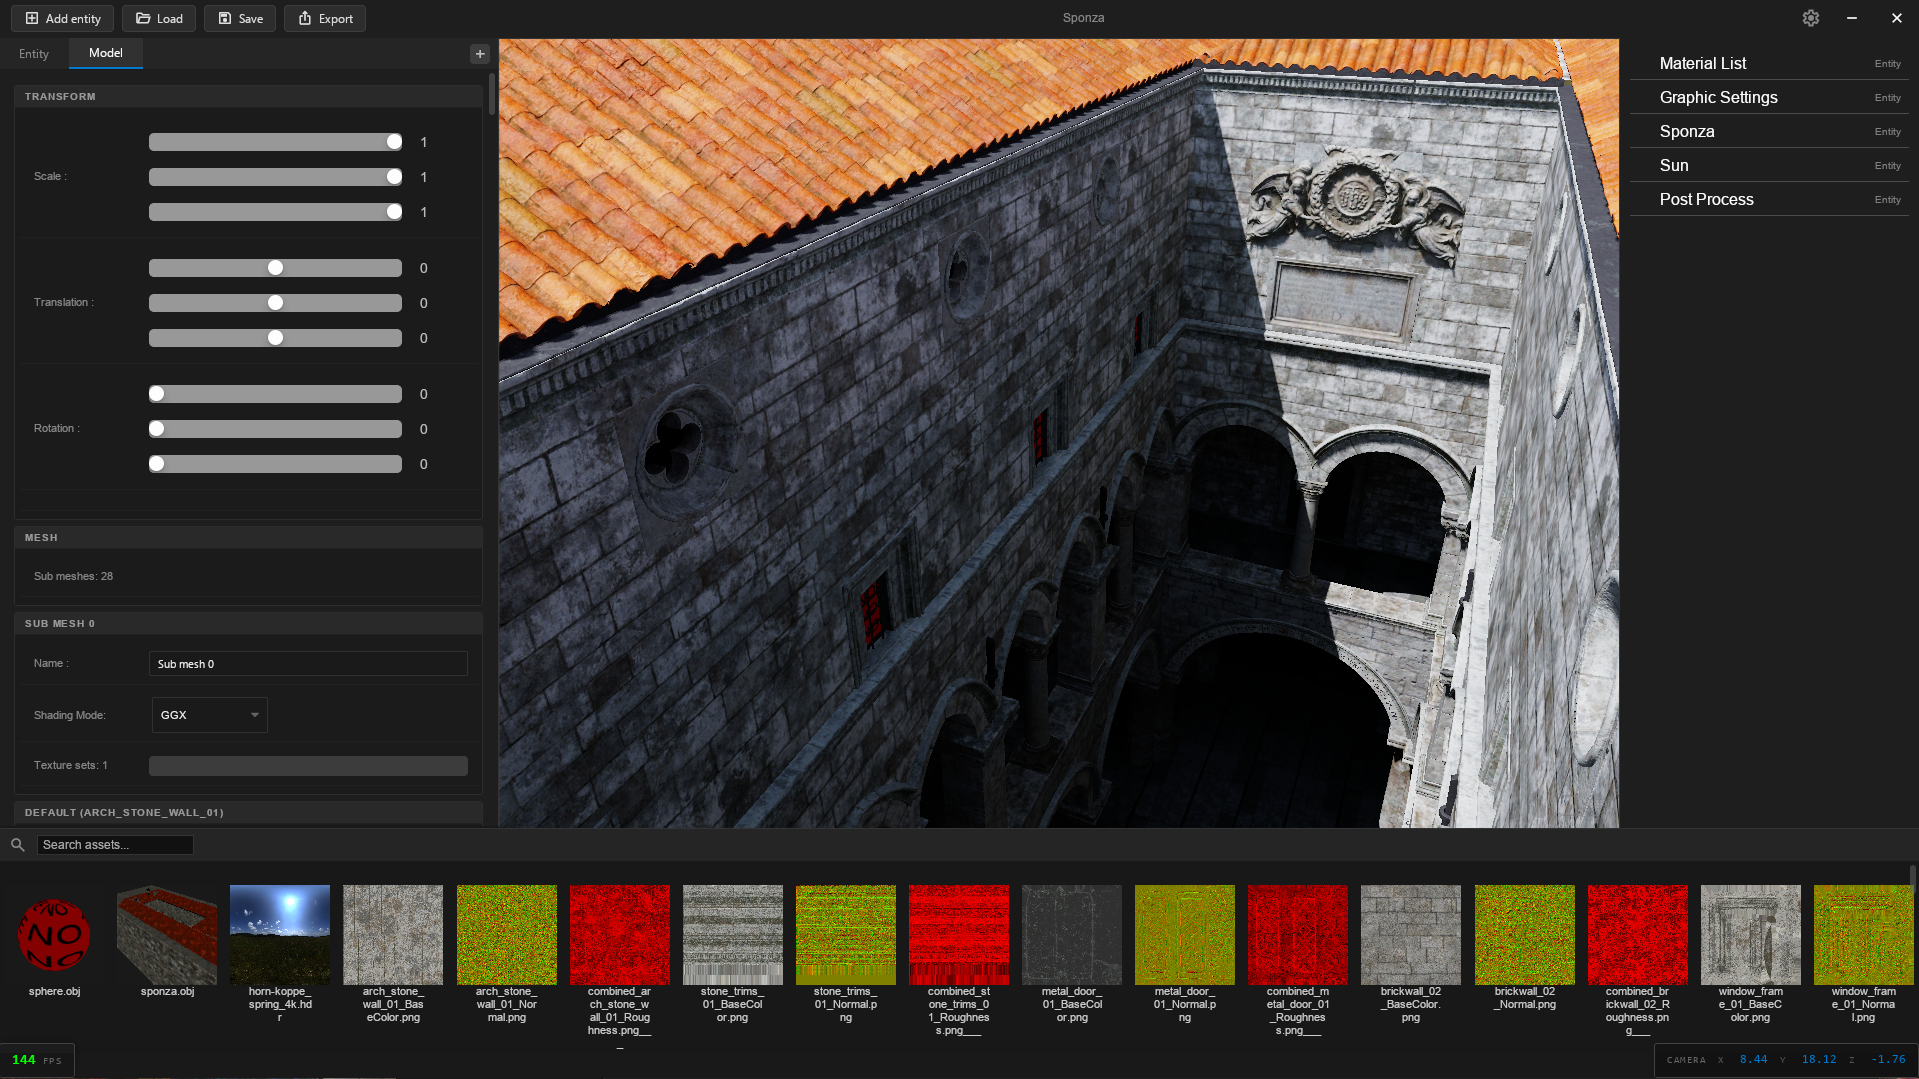
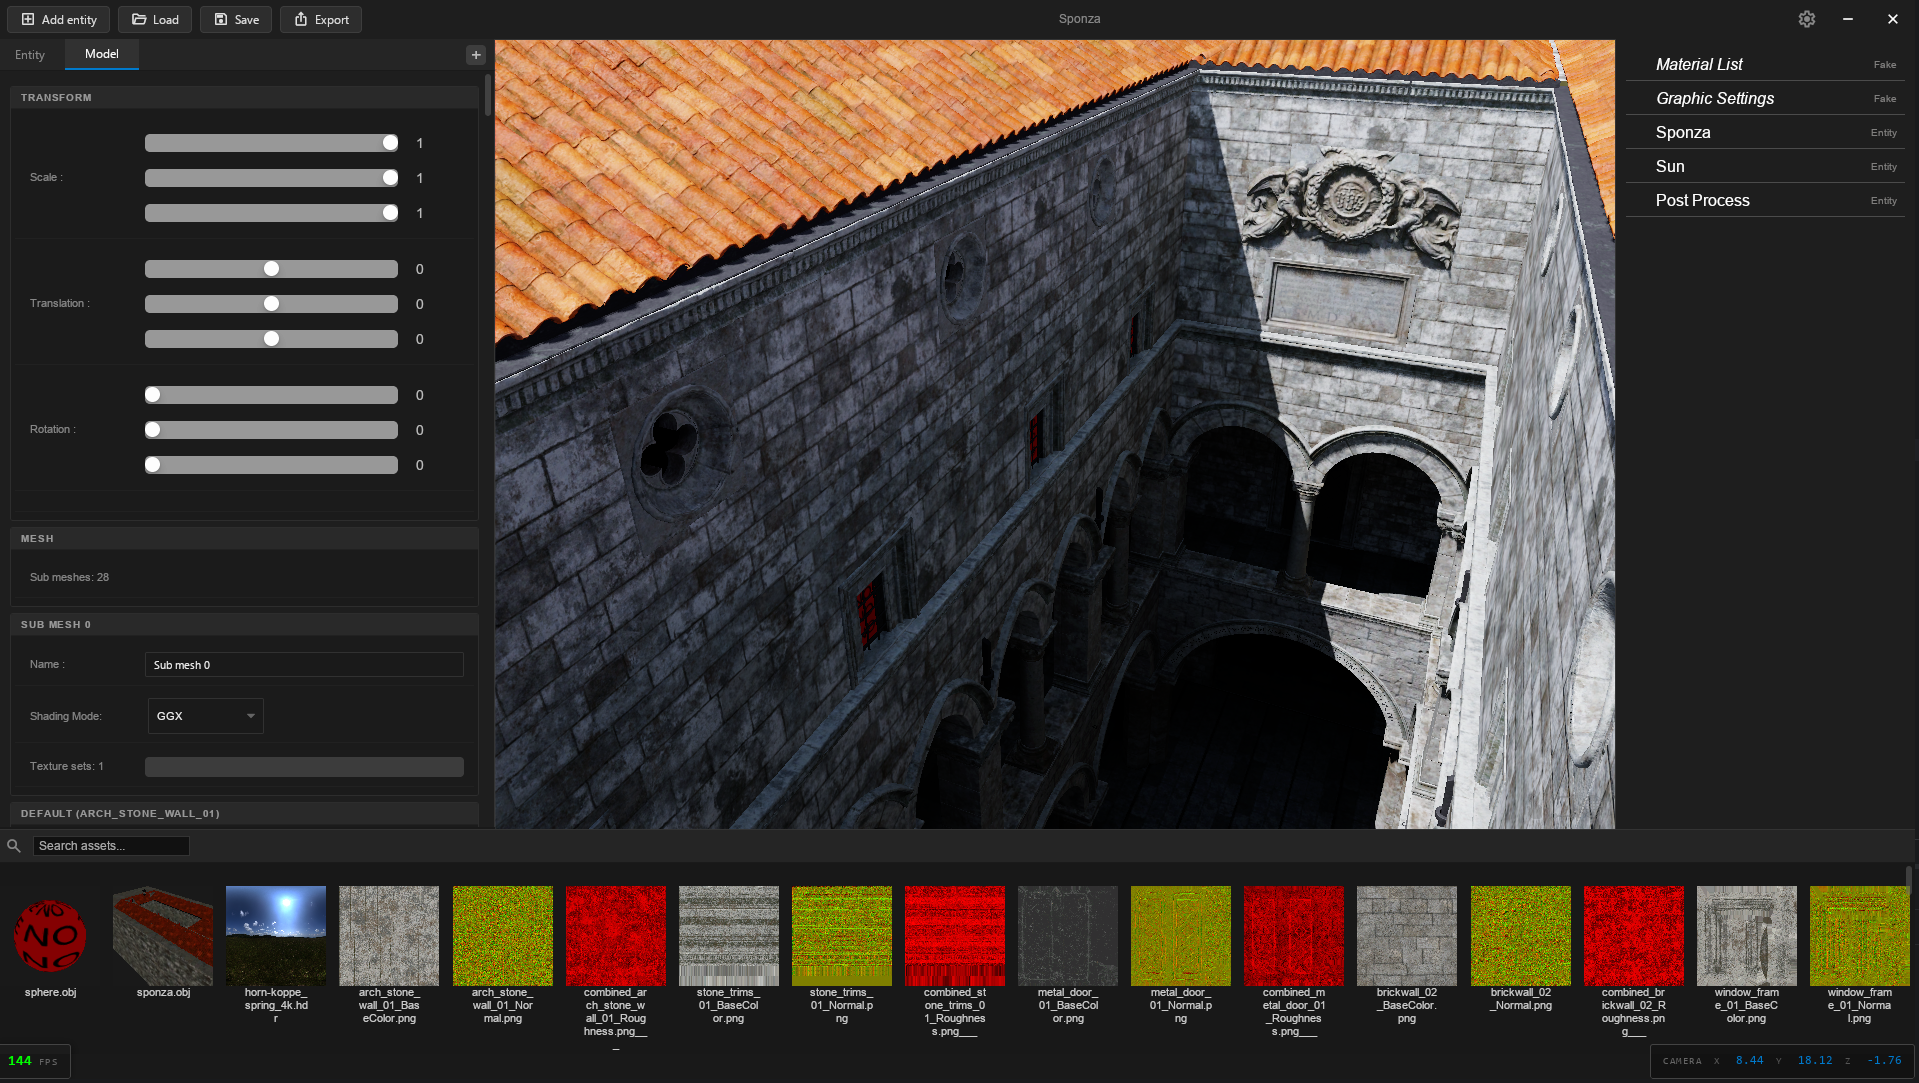
fix fake entities UI style

diff --git a/Wolf Engine 2.0 - 3D Editor/UI/UI.html b/Wolf Engine 2.0 - 3D Editor/UI/UI.html
@@ -541,7 +541,7 @@
 
 		item.innerHTML = `
 			<span class="entityToggle">▼</span>
-			<span class="entityName">${name}</span>
+			<span class="entityName" ${isFake ? "style='font-style: italic;'" : ""}>${name}</span>
 			<div class="entityType">${isFake ? "Fake" : "Entity"}</div>
 		`;
 

diff --git a/Wolf Engine 2.0 - 3D Editor/SystemManager.cpp b/Wolf Engine 2.0 - 3D Editor/SystemManager.cpp
@@ -971,7 +971,7 @@ void SystemManager::updateBeforeFrame()
 		const std::vector<Wolf::ResourceUniqueOwner<Entity>>& allEntities = m_entityContainer->getEntities();
 		for (const Wolf::ResourceUniqueOwner<Entity>& entity : allEntities)
 		{
-			std::string scriptToAddModelToList = "addEntityToList(\"" + entity->getName() + "\", \"" + entity->computeEscapedLoadingPath() + "\", false, ";
+			std::string scriptToAddModelToList = "addEntityToList(\"" + entity->getName() + "\", \"" + entity->computeEscapedLoadingPath() + "\", " + (entity->isFake() ? "true" : "false") + ", ";
 			scriptToAddModelToList += (entity->getParentEntity() ? "\"" + entity->getParentEntity()->computeEscapedLoadingPath() + "\"" : "null") + ")";
 
 			m_wolfInstance->evaluateUserInterfaceScript(scriptToAddModelToList);
